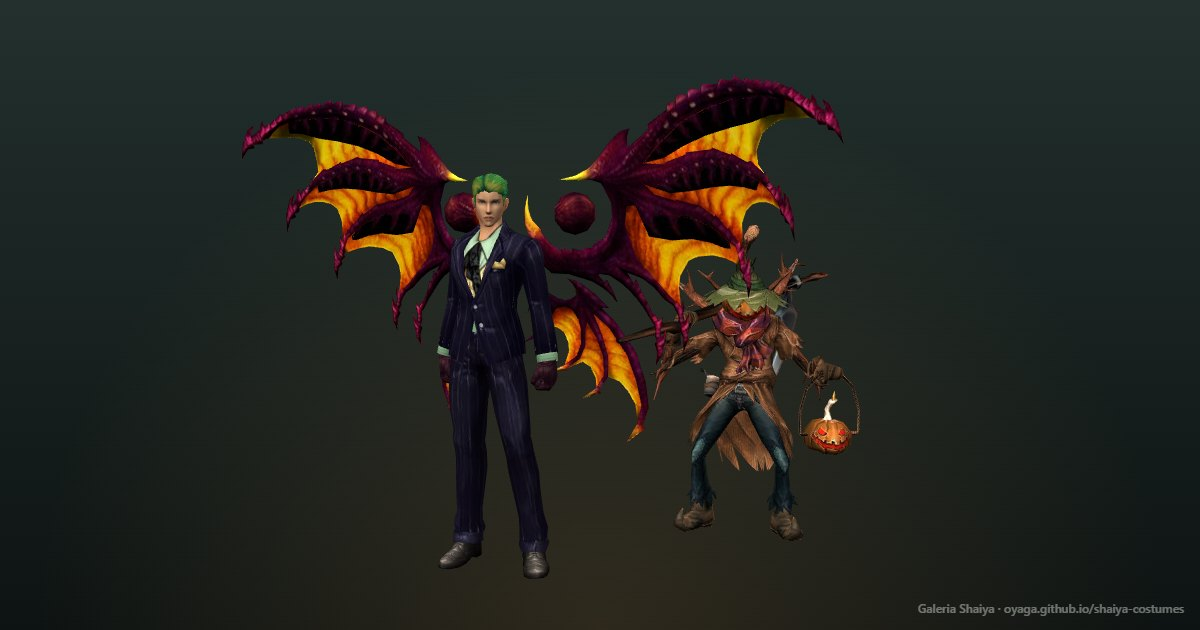
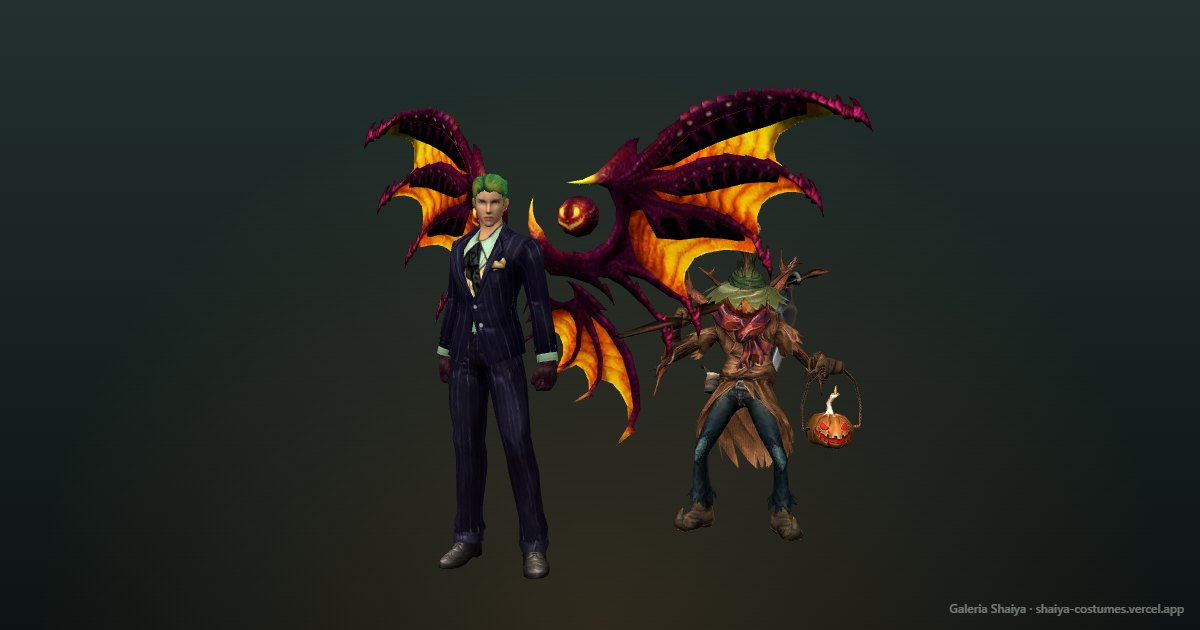
Vercel como endereço principal + Web Analytics
- Links canônicos, sitemap e imagem de compartilhamento apontam para a Vercel
  (SITE_URL > VERCEL_PROJECT_PRODUCTION_URL > MAIN_SITE em src/routes.js);
  a cópia do GitHub Pages também. 404.html usa a raiz do próprio build.
- @vercel/analytics (Bun, versão fixa) só no build da Vercel (VERCEL=1 →
  VITE_VERCEL): uma visita por página aberta, sem contar cada item clicado
  (plano grátis = 50 mil eventos/mês). Substitui os PRs #1 e #2 do bot.
- Assinatura do "Baixar imagem" e og.jpg com o endereço da Vercel.

diff --git a/src/main.jsx b/src/main.jsx
@@ -7,6 +7,18 @@ import "./styles.css";
 // navegador buscaria "./favicon.svg" de novo a partir do endereço novo.
 for (const l of document.querySelectorAll('link[rel~="icon"]')) l.href = l.href;
 
+// Vercel Web Analytics, só no build da Vercel (o script /_vercel/insights só existe lá). Conta UMA visita por
+// página aberta — o endereço em que a pessoa chegou, guardado antes de o app trocar o endereço —, não cada item
+// clicado: o plano grátis tem 50 mil eventos/mês para a conta toda. route agrupa as páginas de item por categoria.
+if (import.meta.env.VITE_VERCEL) {
+  const path = location.pathname;
+  const route = path.replace(/[^/]+-\d+(?:-\d+)?\/$/, "[item]/");
+  import("@vercel/analytics").then(({ inject, pageview }) => {
+    inject({ disableAutoTrack: true });
+    pageview({ route, path });
+  });
+}
+
 createRoot(document.getElementById("root")).render(
   <React.StrictMode>
     <App />

diff --git a/src/components/Stage.jsx b/src/components/Stage.jsx
@@ -1,6 +1,9 @@
 import { useEffect, useRef, useState } from "react";
 import { Viewer } from "../viewer.js";
 import { DATA_BASE } from "../config.js";
+import { MAIN_SITE } from "../routes.js";
+
+const MARK = "Galeria Shaiya · " + new URL(MAIN_SITE).host;   // assinatura do "Baixar imagem"
 
 const MOTIONS = ["idle", "walk", "run"];
 
@@ -41,7 +44,7 @@ export default function Stage({ spec, motion, spin, dye, anims, onMotion, onSpin
   const shot = () => {
     const v = viewerRef.current;
     if (!v || status) return;
-    const cv = v.snapshot(1920, 1080, "Galeria Shaiya · oyaga.github.io/shaiya-costumes");
+    const cv = v.snapshot(1920, 1080, MARK);
     cv.toBlob((b) => {
       if (!b) return;
       const a = document.createElement("a");

diff --git a/vite.config.js b/vite.config.js
@@ -3,8 +3,10 @@ import react from "@vitejs/plugin-react";
 
 // Base relativa: o mesmo build serve no GitHub Pages (https://oyaga.github.io/shaiya-costumes/) e na raiz de
 // outro host (Vercel etc.). Os dados são buscados por import.meta.env.BASE_URL + "data/".
+// VITE_VERCEL: a Vercel define VERCEL=1 no build; só esse build liga o Web Analytics (src/main.jsx).
 export default defineConfig({
   base: "./",
   plugins: [react()],
+  define: { "import.meta.env.VITE_VERCEL": JSON.stringify(process.env.VERCEL === "1") },
   build: { chunkSizeWarningLimit: 900 },
 });

diff --git a/src/routes.js b/src/routes.js
@@ -4,6 +4,9 @@
 // Usado pelo app (abre o item do endereço e mantém o endereço em dia) e por scripts/prerender.mjs (gera as páginas).
 import { norm } from "./catalog.js";
 
+// Endereço principal do site (Vercel). A cópia do GitHub Pages aponta para cá nos links canônicos.
+export const MAIN_SITE = "https://shaiya-costumes.vercel.app/";
+
 export const ROUTE_LANGS = ["pt", "es", "en"];
 export const ROUTE_CATS = ["costume", "set", "weapon", "mount", "wing", "pet"];
 export const CAT_SEG = {

diff --git a/README.md b/README.md
@@ -15,7 +15,7 @@ Cada raça joga três classes, e a classe escolhe o corpo do personagem — por 
 
 **Comparar** mostra duas vitrines lado a lado (A e B): a lista, o provador, a pintura e a raça/classe mexem no lado ativo, e "Trocar A ↔ B" inverte os dois.
 
-Site: https://oyaga.github.io/shaiya-costumes/
+Site: https://shaiya-costumes.vercel.app/ (cópia no GitHub Pages: https://oyaga.github.io/shaiya-costumes/, com os links canônicos apontando para a Vercel)
 
 ## Rodar localmente
 
@@ -36,7 +36,11 @@ fantasia/sp-dracula-150-67/      es/disfraz/sp-dracula-150-67/      en/costume/s
 
 O número no fim é o id do item no jogo (tipo-id; set = id do set), então o endereço não muda quando os dados são regerados. Cada página tem título, descrição, link canônico, as versões nos outros idiomas (`hreflang`), imagem de compartilhamento (`public/og.jpg`) e um conteúdo estático com nome, atributos e links, que é o que os buscadores leem; o app abre por cima e mantém o endereço em dia enquanto você navega. Também saem `sitemap.xml`, `robots.txt` e `404.html`. Rotas em `src/routes.js` (as mesmas no app e no gerador).
 
-Os links absolutos usam `SITE_URL` (padrão: `https://oyaga.github.io/shaiya-costumes/`). Para publicar em outro endereço: `SITE_URL=https://meu-dominio/ bun run build`.
+Os links absolutos (canônico, sitemap, imagem) usam, nesta ordem: `SITE_URL`, o domínio de produção que a Vercel informa no build (`VERCEL_PROJECT_PRODUCTION_URL` — acompanha um domínio próprio, se o projeto ganhar um) ou `MAIN_SITE` em `src/routes.js` (`https://shaiya-costumes.vercel.app/`). O build do GitHub Pages também aponta para a Vercel.
+
+## Analytics
+
+Vercel Web Analytics, ligado só no build da Vercel (`VERCEL=1` → `VITE_VERCEL` em `vite.config.js`); a cópia do GitHub Pages fica sem. Conta uma visita por página aberta (o endereço em que a pessoa chegou), não cada item clicado — o plano grátis tem 50 mil eventos por mês. Precisa estar ativado no painel da Vercel (Analytics → Enable).
 
 ## Dados
 
